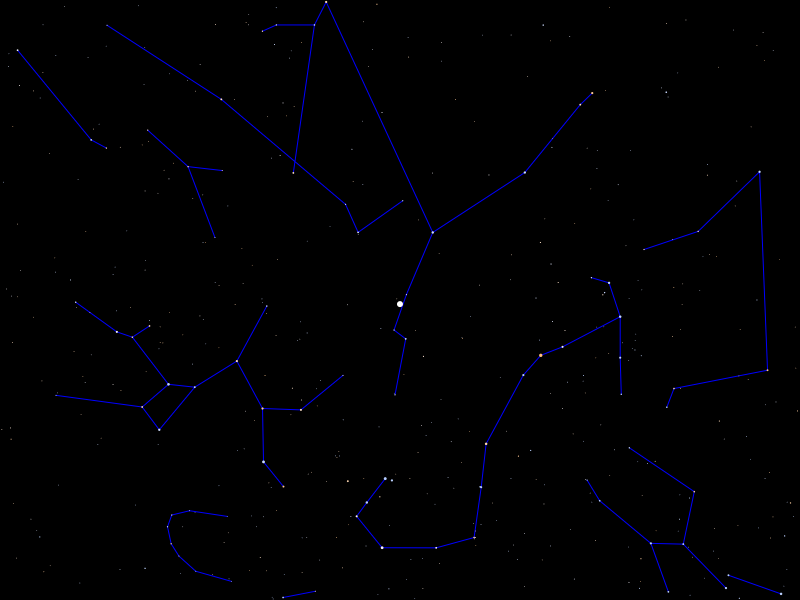
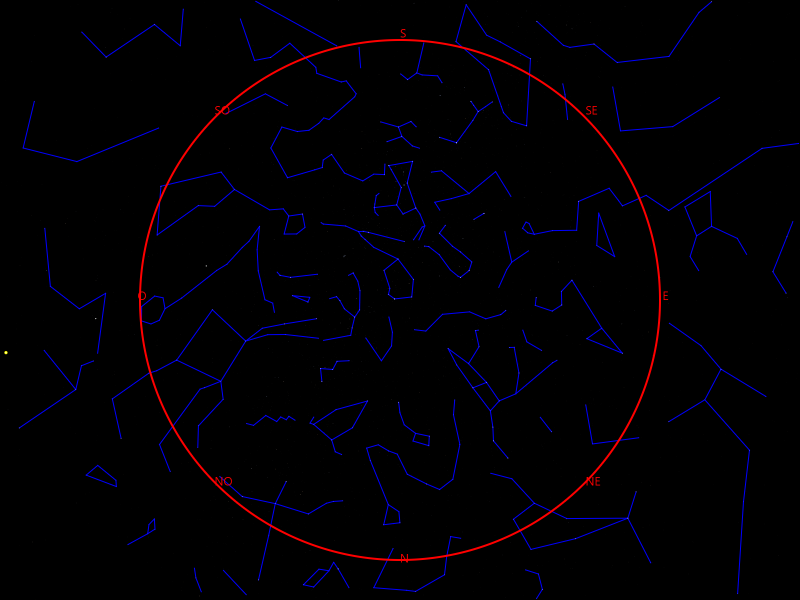
Horizon qui fonctionne

diff --git a/src/ch/epfl/rigel/gui/SkyCanvasPainter.java b/src/ch/epfl/rigel/gui/SkyCanvasPainter.java
@@ -4,16 +4,23 @@ import ch.epfl.rigel.astronomy.Asterism;
 import ch.epfl.rigel.astronomy.ObservedSky;
 import ch.epfl.rigel.astronomy.Planet;
 import ch.epfl.rigel.astronomy.Star;
+import ch.epfl.rigel.coordinates.CartesianCoordinates;
 import ch.epfl.rigel.coordinates.HorizontalCoordinates;
 import ch.epfl.rigel.coordinates.StereographicProjection;
 import ch.epfl.rigel.math.ClosedInterval;
 import javafx.geometry.Bounds;
+import javafx.geometry.NodeOrientation;
 import javafx.geometry.Point2D;
 import javafx.scene.canvas.Canvas;
 import javafx.scene.canvas.GraphicsContext;
 import javafx.scene.paint.Color;
 import javafx.scene.transform.Transform;
+import org.w3c.dom.ls.LSOutput;
 
+import javax.swing.plaf.synth.SynthOptionPaneUI;
+import java.awt.*;
+import java.util.ArrayList;
+import java.util.HashMap;
 import java.util.List;
 
 import static ch.epfl.rigel.math.Angle.ofDeg;
@@ -149,14 +156,44 @@ public class SkyCanvasPainter {
     }
 
     public void drawHorizon (ObservedSky observedSky, StereographicProjection stereographicProjection, Transform transform) {
+        ctx.setLineWidth(2);
+        ctx.setStroke(Color.RED);
+        ctx.setFill(Color.RED);
+
+        /*
+        Vérifier si optimisable avec horizontal coordinates
+         */
+
+        HashMap<String, CartesianCoordinates> cardinalPoints = new HashMap<>();
+        cardinalPoints.put("N", stereographicProjection.apply(HorizontalCoordinates.ofDeg(0,-0.5)));
+        cardinalPoints.put("NE", stereographicProjection.apply(HorizontalCoordinates.ofDeg(45,-0.5)));
+        cardinalPoints.put("E", stereographicProjection.apply(HorizontalCoordinates.ofDeg(90, -0.5)));
+        cardinalPoints.put("SE", stereographicProjection.apply(HorizontalCoordinates.ofDeg(135, -0.5)));
+        cardinalPoints.put("S", stereographicProjection.apply(HorizontalCoordinates.ofDeg(180, -0.5)));
+        cardinalPoints.put("SO", stereographicProjection.apply(HorizontalCoordinates.ofDeg(225, -0.5)));
+        cardinalPoints.put("O", stereographicProjection.apply(HorizontalCoordinates.ofDeg(270, -0.5)));
+        cardinalPoints.put("NO", stereographicProjection.apply(HorizontalCoordinates.ofDeg(315, -0.5)));
+
+        for (String s : cardinalPoints.keySet()) {
+            CartesianCoordinates cartesCoor = cardinalPoints.get(s);
+            Point2D point = transform.transform(cartesCoor.x(), cartesCoor.y());
+            ctx.fillText(s, point.getX(), point.getY());
+        }
+
 
         double r = stereographicProjection.circleRadiusForParallel(HorizontalCoordinates.of(0,0));
-        Point2D rad = transform.deltaTransform(r, r);
+        CartesianCoordinates centerCoords = stereographicProjection.circleCenterForParallel(HorizontalCoordinates.of(0,0));
+        Point2D transformedCenter = transform.transform(centerCoords.x() + r,centerCoords.y() - r);
+        Point2D rad = transform.deltaTransform(-r, r);
         double radius = Math.abs(rad.getX()) + Math.abs(rad.getY());
+
+        System.out.println("r: " +r);
+        System.out.println("coords : " + centerCoords.x()  + " " +centerCoords.y());
+        System.out.println("transformedCenter : " + transformedCenter.getX() + " " + transformedCenter.getY());
 
         ctx.setLineWidth(2);
         ctx.setStroke(Color.RED);
-        ctx.strokeOval(rad.getX()- radius / 2, rad.getY() - radius / 2, radius, radius);
+        ctx.strokeOval(transformedCenter.getX() - radius,transformedCenter.getY() -radius,radius,radius);
     }
 
 

diff --git a/src/ch/epfl/rigel/gui/GUITest.java b/src/ch/epfl/rigel/gui/GUITest.java
@@ -1,6 +1,10 @@
 package ch.epfl.rigel.gui;
 
+import ch.epfl.rigel.astronomy.ObservedSky;
+import ch.epfl.rigel.coordinates.HorizontalCoordinates;
+import ch.epfl.rigel.coordinates.StereographicProjection;
 import javafx.application.Application;
+import javafx.geometry.Point2D;
 import javafx.geometry.VPos;
 import javafx.scene.Scene;
 import javafx.scene.canvas.Canvas;
@@ -13,35 +17,27 @@ import javafx.scene.transform.Transform;
 import javafx.stage.Stage;
 
 public class GUITest extends Application {
-    public static void main(String[] args) { launch(args); }
+    public static void main(String[] args) {
+        launch(args);
+    }
 
     @Override
     public void start(Stage primaryStage) {
         Canvas canvas = new Canvas(800, 300);
         GraphicsContext ctx = canvas.getGraphicsContext2D();
 
-        Color SUN_YELLOW  = Color.YELLOW;
-        Color SUN_YELLOW2 = Color.rgb(255,255,0,0.25);
+        Color SUN_YELLOW = Color.YELLOW;
+        Color SUN_YELLOW2 = Color.rgb(255, 255, 0, 0.25);
         Color SUN_WHITE = Color.WHITE;
 
         double sunAngularSize = 30;
-        int k =1;
+        int k = 1;
 
         ctx.setFill(Color.BLACK);
-        ctx.fillRect(0,0, canvas.getWidth(), canvas.getHeight());
+        ctx.fillRect(0, 0, canvas.getWidth(), canvas.getHeight());
 
         double xy = 100;
-        double distance  = 2.2*sunAngularSize;
-        ctx.setFill(SUN_YELLOW2);
-        ctx.fillOval( xy-distance/2,xy-distance/2,distance, distance);
 
-        distance = sunAngularSize+2;
-        ctx.setFill(SUN_YELLOW);
-        ctx.fillOval( xy-distance/2,xy-distance/2,distance, distance);
-
-        distance=sunAngularSize;
-        ctx.setFill(SUN_WHITE);
-        ctx.fillOval( xy-distance/2,xy-distance/2,distance, distance);
 
         primaryStage.setScene(new Scene(new BorderPane(canvas)));
         primaryStage.show();

diff --git a/test/ch/epfl/rigel/DrawSky.java b/test/ch/epfl/rigel/DrawSky.java
@@ -39,8 +39,9 @@ public final class DrawSky extends Application {
                     ZonedDateTime.parse("2020-02-17T20:15:00+01:00");
             GeographicCoordinates where =
                     GeographicCoordinates.ofDeg(6.57, 46.52);
-            HorizontalCoordinates projCenter = HorizontalCoordinates.ofDeg(3.7, -65);
+            HorizontalCoordinates projCenter = //HorizontalCoordinates.ofDeg(3.7, -65);
             //HorizontalCoordinates.ofDeg(277, -23);
+            HorizontalCoordinates.ofDeg(0,90);
             //        HorizontalCoordinates.ofDeg(180, 45);
             StereographicProjection projection =
                     new StereographicProjection(projCenter);
@@ -50,16 +51,18 @@ public final class DrawSky extends Application {
             Canvas canvas =
                     new Canvas(800, 600);
             Transform planeToCanvas =
-                    Transform.affine(1300, 0, 0, -1300, 400, 300);
+                    Transform.affine(260, 0, 0, -260, 400, 300);
+                    //Transform.affine(1300, 0, 0, -1300, 400, 300);
             SkyCanvasPainter painter =
                     new SkyCanvasPainter(canvas);
 
             painter.clear();
             painter.drawStars(sky, projection, planeToCanvas);
-            //painter.drawHorizon(sky,projection, planeToCanvas);
-
+            painter.drawPlanets(sky, projection, planeToCanvas);
             painter.drawSun(sky, projection, planeToCanvas);
             painter.drawMoon(sky,projection, planeToCanvas);
+            painter.drawHorizon(sky,projection, planeToCanvas);
+
 
             WritableImage fxImage =
                     canvas.snapshot(null, null);

diff --git a/src/ch/epfl/rigel/gui/EpflLogo.java b/src/ch/epfl/rigel/gui/EpflLogo.java
@@ -31,10 +31,8 @@ public class EpflLogo extends Application {
         ctx.fillText("EPFL", 400, 250);
 
         ctx.setStroke(Color.GREEN);
-        ctx.beginPath();
-        ctx.moveTo(0,0);
-        ctx.lineTo(100,100);
-        ctx.stroke();
+        ctx.setLineWidth(2);
+        ctx.strokeOval(100,100,5,5);
 
 
         // Trous dans le E et le F
